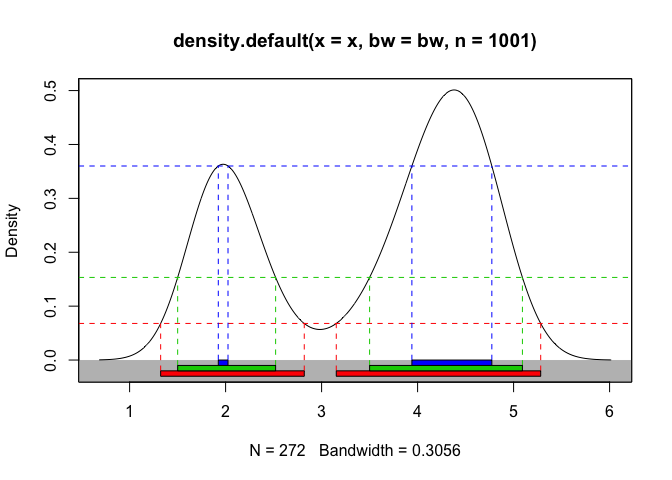
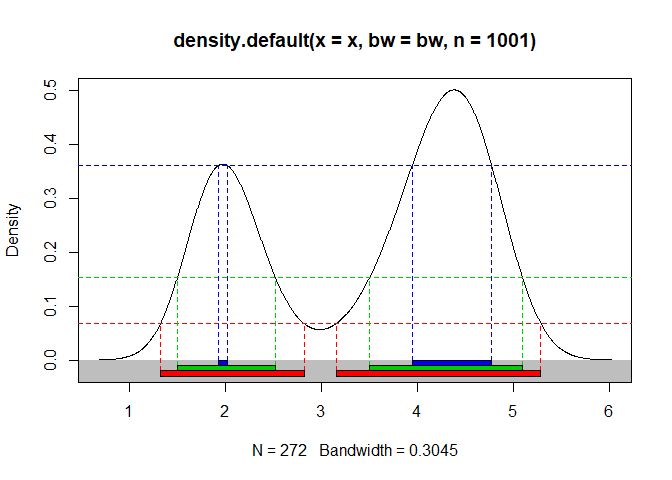
add lifecycle badge, add somewhat working example in the readme...

diff --git a/README.md b/README.md
@@ -9,6 +9,8 @@ plotting highest density regions in the ggplot2 framework.
 
 <!-- badges: start -->
 
+[![Lifecycle:
+experimental](https://img.shields.io/badge/lifecycle-experimental-orange.svg)](https://www.tidyverse.org/lifecycle/#experimental)
 <!-- badges: end -->
 
 # Traditional boxplot
@@ -22,7 +24,6 @@ plotting highest density regions in the ggplot2 framework.
 <!-- end list -->
 
     #> This is hdrcde 3.3
-    #> Warning: package 'ggplot2' was built under R version 3.5.2
 
 ![](README_files/figure-gfm/boxplot-1.png)<!-- -->
 
@@ -33,8 +34,7 @@ density region allows the display of multimodality.
 
   - Region bounded by the interquartile range is replaced by 50% HDR
   - Region bounded by the whiskers is replaced by the 99% HDR
-  - The mode is represented by a horizontal
-line
+  - The mode is represented by a horizontal line
 
 <!-- In both HDR and box plots, the interquartile range or 50% HDR will have a coverage probability of 50%. -->
 
@@ -61,7 +61,9 @@ hdr.boxplot(faithful$eruptions)
 
 ``` r
 library(ggplot2)
-faithful %>% ggplot(aes(y = )) +  geom_hdr_boxplot()
+library(gghdr)
+ggplot(faithful, aes(y = eruptions)) +  
+  geom_hdr_boxplot(position = "identity")
 ```
 
 # hdr.den (Existing)
@@ -81,16 +83,16 @@ hdr.den(faithful$eruptions)
 
     #> $hdr
     #>         [,1]     [,2]     [,3]     [,4]
-    #> 99% 1.323392 2.819361 3.152823 5.282328
-    #> 95% 1.500534 2.520984 3.500000 5.091921
-    #> 50% 1.923841 2.025015 3.940445 4.773299
+    #> 99% 1.323766 2.819344 3.152257 5.282088
+    #> 95% 1.500661 2.520845 3.500000 5.091669
+    #> 50% 1.923610 2.024692 3.941872 4.772422
     #> 
     #> $mode
-    #> [1] 4.379365
+    #> [1] 4.378107
     #> 
     #> $falpha
     #>         1%         5%        50% 
-    #> 0.06791362 0.15330569 0.36003920
+    #> 0.06760665 0.15309392 0.36085651
     #ggplot(faithful, aes(x=eruptions)) +  geom_density()
 
 # gg\_hdr (Proposal)
